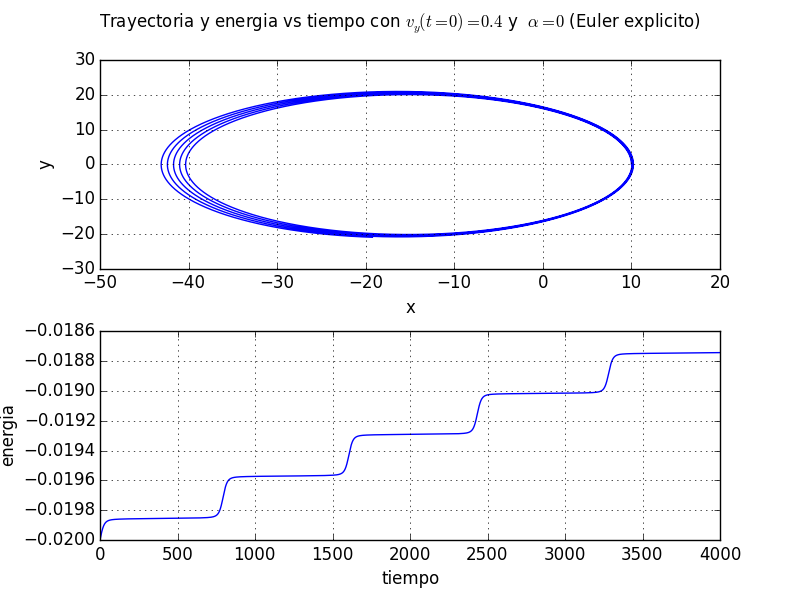
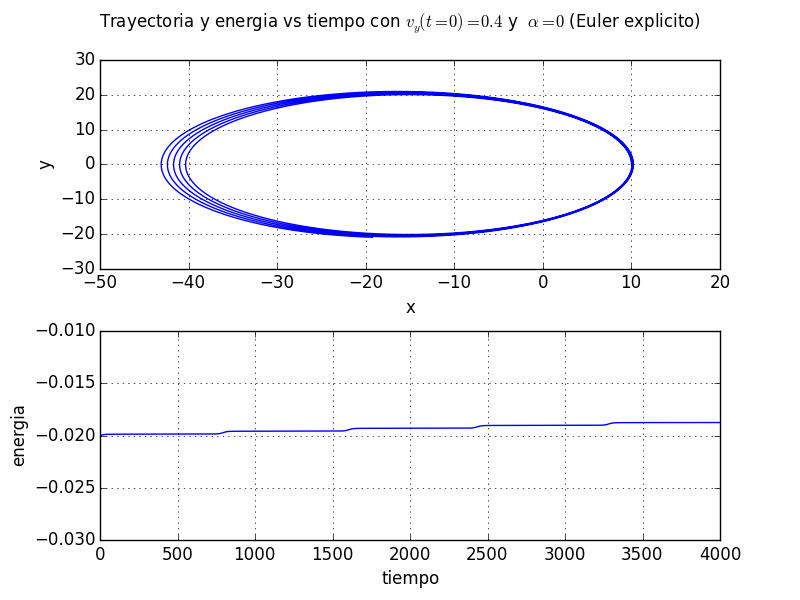
nuevos limites en grafica de euler

diff --git a/solucion_usando_euler.py b/solucion_usando_euler.py
@@ -50,6 +50,8 @@ ax2.plot(t,energia)
 ax2.grid(True)
 ax2.set_xlabel('tiempo')
 ax2.set_ylabel('energia')
+ax2.set_ylim(-0.03,-0.01)
+
 
 
 plt.draw()
